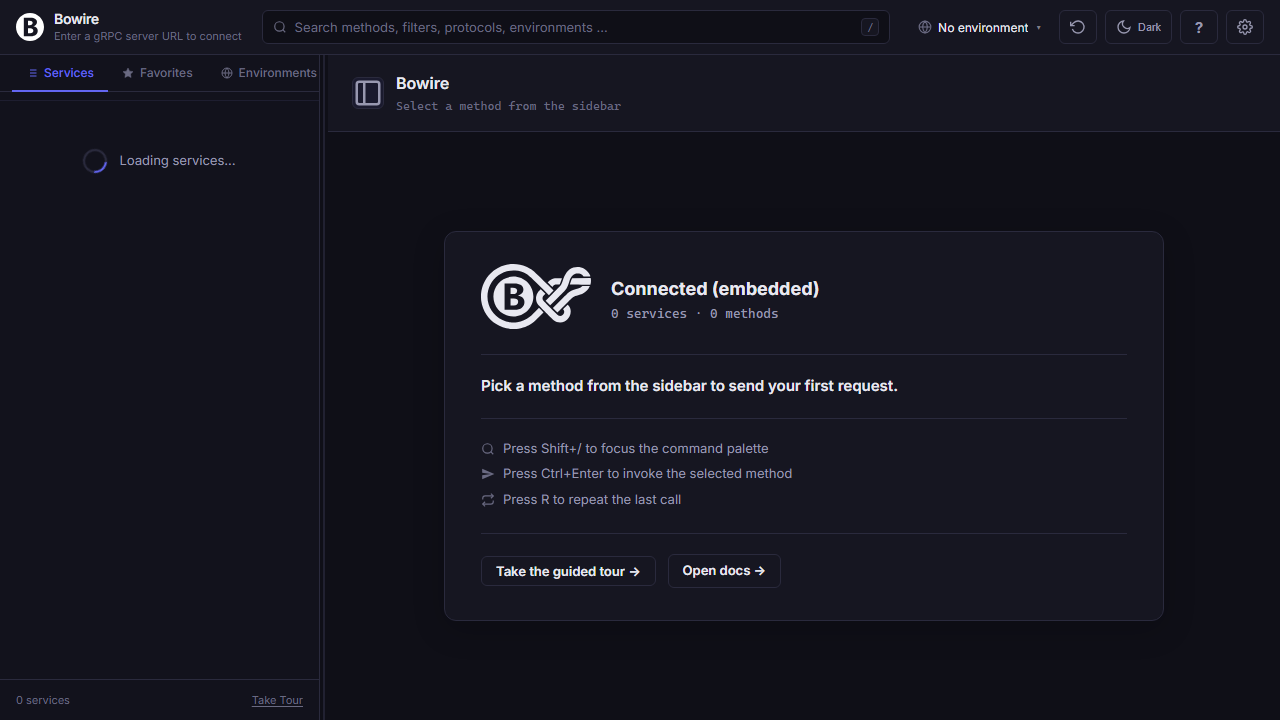
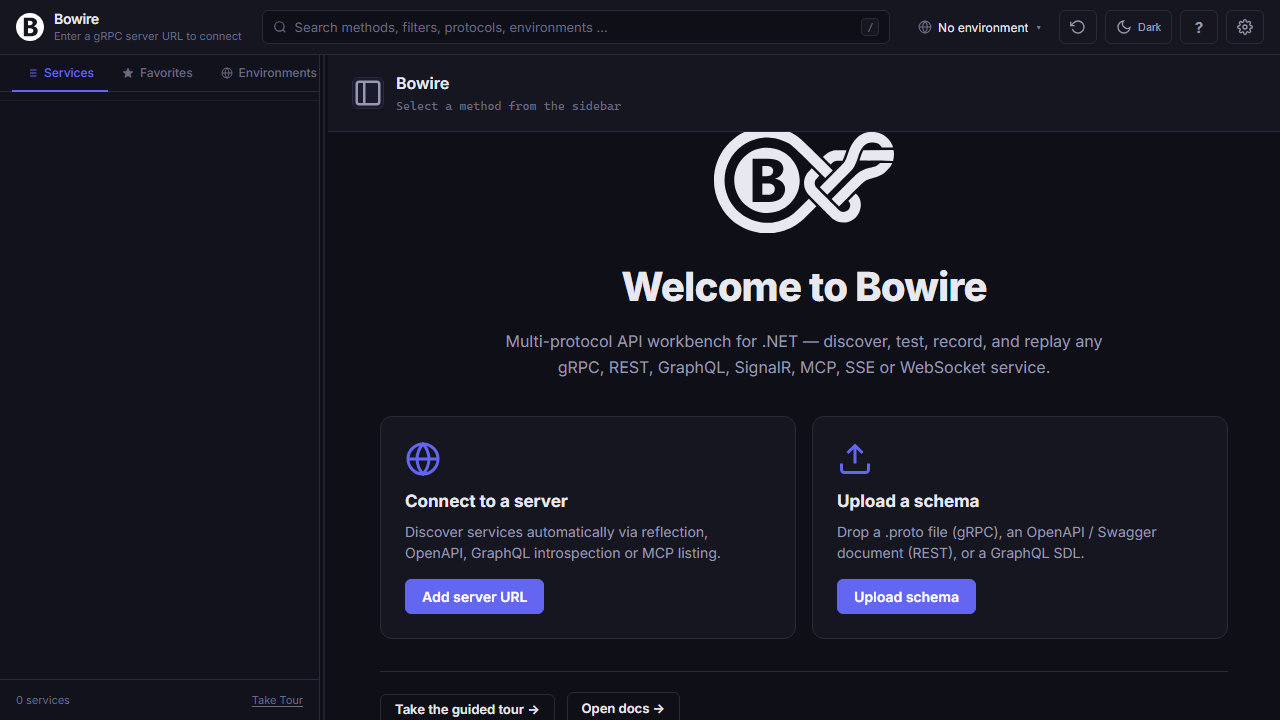
ui(sidebar): hide loading spinner when discovery has resolved
Sidebar showed 'Loading services...' whenever services.length === 0,
even after fetchServices() finished and isLoadingServices flipped to
false. The first-run landing card on the right (Welcome to Bowire,
Connect-server / Upload-schema cards) was rendered while the sidebar
was still spinning — visually contradictory.

Gate the spinner on isLoadingServices so an empty post-discovery
sidebar is genuinely empty, matching the right-pane empty state.

Bonus — capture-empty-states.js now waits for both spinners to be gone
before screenshotting (was racing the right-pane "Pick a method" hint
that lands seconds before the sidebar settles).

first-run captures regenerated to show the actual Welcome page.

diff --git a/scripts/capture-empty-states.js b/scripts/capture-empty-states.js
@@ -54,14 +54,15 @@ function log(m) { console.log(new Date().toISOString().slice(11, 19), m); }
             await page.reload({ waitUntil: 'domcontentloaded' });
             await page.waitForSelector('#bowire-app.bowire-app-ready', { timeout: 20000 });
 
-            // Wait until the discovery loop has either resolved (services
-            // populated, or first-run landing card visible) or visibly
-            // failed (error pane). 30 s is enough for a TCP RST on the
-            // dead :65535 to surface.
+            // Wait until every spinner has gone away — sidebar's
+            // "Loading services..." and the right-pane "Discovering
+            // services..." card both render until isLoadingServices
+            // flips to false. 30 s easily covers a TCP-refused on the
+            // dead :65535 (the AbortController fires at 12 s).
             await page.waitForFunction(() => {
                 const txt = (document.body && document.body.innerText) || '';
-                if (/Discovering services/i.test(txt)) return false;
-                return /Connected|services|First-run|Welcome|first request|Pick a method|Discovery failed|Server unreachable|Drop in a schema/i.test(txt);
+                if (/Discovering services|Loading services/i.test(txt)) return false;
+                return /Connected|First-run|Welcome|first request|Pick a method|Discovery failed|Could not discover|Server unreachable|Drop in a schema|services/i.test(txt);
             }, { timeout: 30000 }).catch(() => {});
             await page.waitForTimeout(800);
 

diff --git a/src/Kuestenlogik.Bowire/wwwroot/js/render-sidebar.js b/src/Kuestenlogik.Bowire/wwwroot/js/render-sidebar.js
@@ -1224,10 +1224,16 @@
         } else if (sidebarView === 'favorites') {
             renderFavoritesListInto(list);
         } else if (services.length === 0) {
-            list.appendChild(el('div', { className: 'bowire-loading' },
-                el('div', { className: 'bowire-spinner' }),
-                el('span', { className: 'bowire-loading-text', textContent: 'Loading services...' })
-            ));
+            // Spinner only while discovery is in flight; once
+            // discovery has resolved, an empty service list means the
+            // landing card on the right is showing the proper empty
+            // state and the sidebar should match it (no spinner).
+            if (isLoadingServices) {
+                list.appendChild(el('div', { className: 'bowire-loading' },
+                    el('div', { className: 'bowire-spinner' }),
+                    el('span', { className: 'bowire-loading-text', textContent: 'Loading services...' })
+                ));
+            }
         } else {
             // Effective query combines the transient topbar search with the
             // pinned name-filter chip. Both are AND-ed: a method must match
